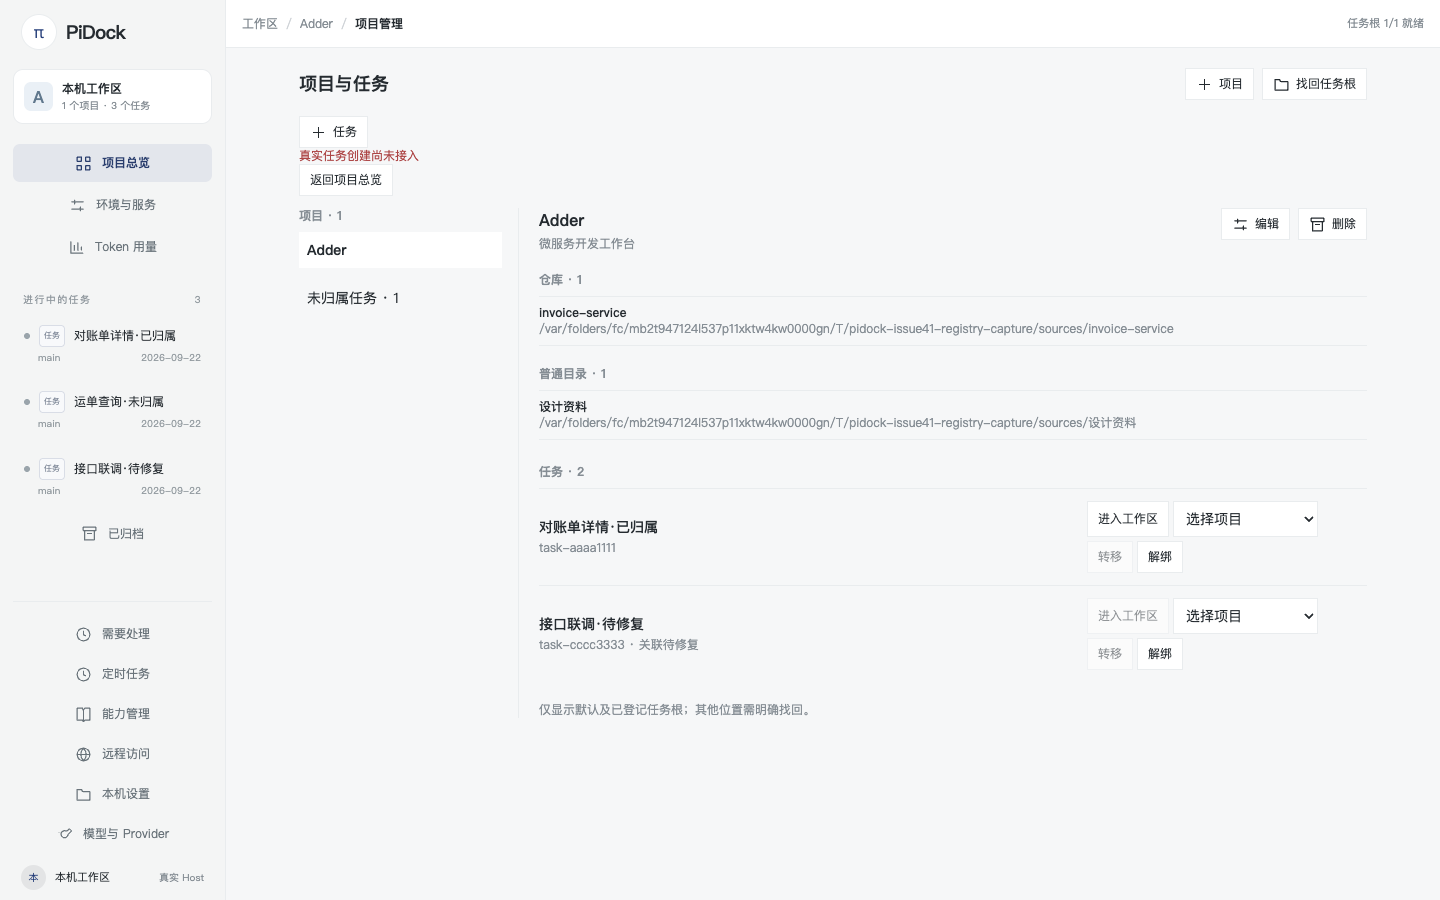
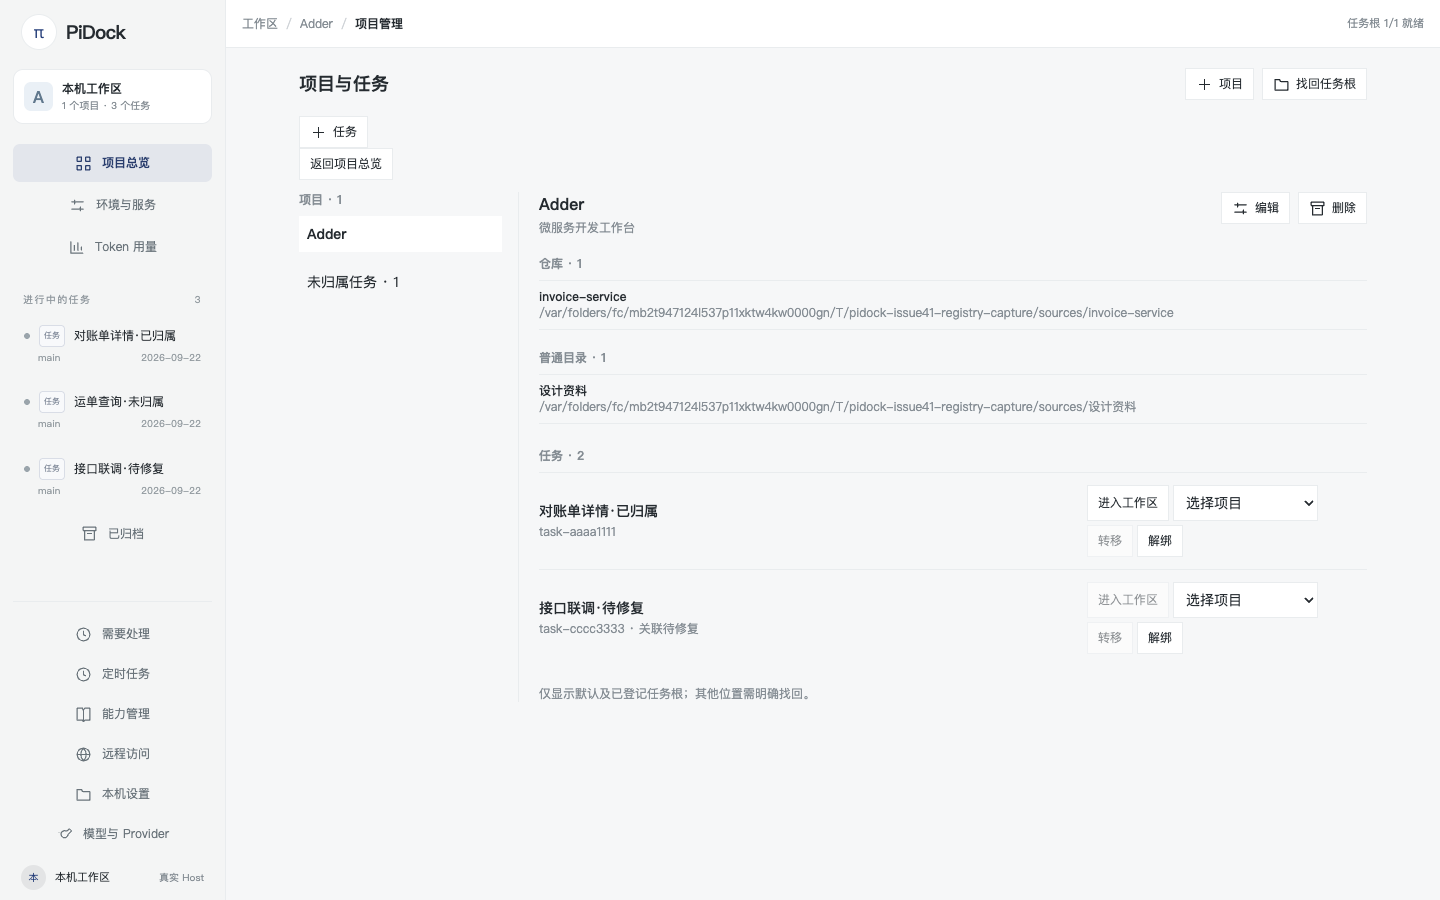
docs(evidence): recapture the #41 Project registry views without the fail-closed creation artifact (ref #38, ref #39, ref #40, ref #41)

diff --git a/docs/evidence/desktop-project-registry/README.md b/docs/evidence/desktop-project-registry/README.md
@@ -1,8 +1,9 @@
 # [PiDock 02e/02f/02g/02h] (#38/#39/#40/#41) Desktop 项目注册表 — 真实 Electron 证据
 
-本目录是 **真实 Electron**（生产 main 接线 + 已构建 React renderer，非 Vite/Playwright，非夹具页）
+本目录是 **真实 Electron**（生产运行时接线 + 已构建 React renderer，非 Vite/Playwright，非夹具页）
 对「Desktop 项目与未归属任务接入持久 Host」的窗口级截图证据：从 **真实磁盘** 的 main-owned
-Project 注册表读取项目、仓库/目录、已归属任务、待修复任务与明确未归属任务。
+Project 注册表读取项目、仓库/目录、已归属任务、待修复任务与明确未归属任务。启动路径与生产接线
+的一致性及唯一省略项见 §2 / §4。
 
 - 脚本：`packages/shell/scripts/electron-issue41-project-registry-capture.mjs`
 - PNG：`1440x900-*.png` / `720x560-*.png`
@@ -25,11 +26,20 @@ pnpm --filter @pidock/shell exec electron scripts/electron-issue41-project-regis
 
 ## 2. 启动路径与数据源
 
-- 启动路径：`createTrustedWindow("issue41","production")` + `loadTrustedViews` →
-  `dist/renderer/index.html`（无 fixture entry、无 Vite、无 memoryHost fallback）。
+- 启动路径：脚本从已编译的 `packages/shell/dist/main/*.js` **直接** 导入运行时模块，调用
+  `createTrustedWindow("issue41","production")` + `loadTrustedViews` → `dist/renderer/index.html`
+  （无 fixture entry、无 Vite、无 memoryHost fallback）。它**不**运行 `dist/main/main.js`，因此
+  应用生命周期、窗口证据断言与定时驱动不参与本次捕获。
+- 接线：与生产入口一致（`main.ts:157-180`）。`registerIpc(client, views.registry, tasks, projects, taskRoots,
+  undefined, creation, providers, …)` 中传入真实的 `ProjectTaskCreation`（`CreationIntentStore` +
+  `projects` + `TaskRootIndex` + `PerTaskHostRegistry`）与真实的 `ProviderWiring`
+  （`ProviderProfileStore` + 生产 installer 体）。因此 `shell/createTask` 走真实分支
+  （`current` 返回 `null`），渲染层**不**绘制 `真实任务创建尚未接入` 警报。
 - 数据源：真实 `TaskRootIndex`（隔离默认任务根）+ 真实 `ProjectRegistry`（隔离 `userData` 下的
   `projects.json`）+ `PerTaskHostRegistry`（`utilityProcess` fork `dist/host/host-entry.js`）。
   没有演示对象、没有内存夹具、没有 dev server。
+- 唯一未接线的生产依赖是 **服务配方目录**（`ServiceCatalog` / `tasks.configureServices`）：原因见 §4。
+  本目录三个视图的可见内容不依赖它。
 
 ## 3. 会话内容：seeded 与驱动 vs. 真实用户操作（重要披露）
 
@@ -61,30 +71,47 @@ pnpm --filter @pidock/shell exec electron scripts/electron-issue41-project-regis
 （为制造读取失败而用一个 Proxy 只覆盖 `TaskRootIndex.inventory()`）不同，本脚本全部走生产实现；
 `needs-repair` 是通过真实磁盘目录替换产生的真实注册表状态，不是注入的返回值。
 
+**唯一省略的生产依赖：服务配方目录。** 生产入口还向 `registerIpc` 传入 `ServiceCatalog`
+（`main.ts:180`），使 `tasks.configureServices` 生效服务归属围栏。本 harness **故意不接入**它：
+`needs-repair` 场景会替换 `task-cccc3333` 的目录，而围栏生效时 Host 在 `quitAll` 阶段会因无法
+验证被替换目录的身份而报 `service-owner-shutdown-unconfirmed`，受 `PerTaskHostRegistry.quitAll`/
+`disposeAll` 的封口契约约束，清理 helper 不能忽略该失败。本目录三个视图的可见状态与它无关（服务
+目录 IPC 仅在用户进入服务页面时才被调用）。
+
 ## 5. 规格冲突（不在本目录修正）
 
 `#41` box 2 要求 `创建真实任务` 与 `pi 发送` 保持 **DISABLED（尚未接线）**，但后续 `#42/#45/#47`
-已按负责人决策把它们接线。本证据 **不** 撤销这些后继能力，也 **不** 重写工单；`项目管理`
-顶部仍显示 `真实任务创建尚未接入` 的既有文句。该冲突交由负责人裁决，不属于本次源码改动范围。
+已按负责人决策把它们接线（`main.ts:167` 构造 `ProjectTaskCreation`，`main.ts:180` 传入 `registerIpc`）。
+本证据 **不** 撤销这些后继能力，也 **不** 重写工单。harness 与生产一样接入了 `ProjectTaskCreation`，
+所以本目录 `项目管理` 截图里的 `新建任务` 入口是**可用**的，且 **没有** `真实任务创建尚未接入` 警报：
+截图本身即表明当前源码与 box 2 的期望相反。该冲突交由负责人裁决，不属于本次源码改动范围。
 
 ## 6. 捕获方法与确定性
 
 - 尺寸：脚本 `setContentSize(W,H)` 后断言 `getContentBounds()` 恰为 `1440×900` / `720×560`；
   文件名的 `WxH` 即实测 **CSS 内容盒** 尺寸。
-- 捕获机 deviceScaleFactor 见 `capture-log.json`（本机为面板/显示器 1×；`pixelWidth`/`pixelHeight`
-  记录真实位图尺寸，避免把 `WxH` 文件名误读为像素尺寸）。
+- 捕获机 deviceScaleFactor 见 `capture-log.json`（本机为面板/显示器 1×，所以 `1440×900` 的位图就是
+  1440×900 px；`pixelWidth`/`pixelHeight` 记录真实位图尺寸）。注意兄弟证据
+  `docs/evidence/desktop-task-inventory/` 的 `capture-log.json` 记录 `deviceScaleFactor: 2`
+  （同名 `1440×900` 对应 2880×1800 位图）：两份证据都如实记录各自的 dsf，跨证据比较请用
+  `pixelWidth`/`pixelHeight`，不要按文件名比较。`#38` box 5 的 720×560 可读性检查是在本目录的
+  1× PNG 上完成的。
 - 截图使用渲染器调试协议的 `Page.captureScreenshot`（对精确尺寸的 shell view 取合成帧）。
-  起因：本机某些显示/遮挡状态下 `webContents.capturePage()` 会以 `UnknownVizError` 拒绝，而
-  `Page.captureScreenshot` 稳定；两者对同一状态产生 **逐字节相同** 的 PNG（已用既有
-  `capturePage` 运行对照 sha256 验证）。未做任何「重试到通过」。
-- 固定临时根（`$TMPDIR/pidock-issue41-registry-capture`）使捕获到的本机路径稳定，因此同一源码
-  版本重放得到逐字节相同 PNG。本目录的 PNG/log 出自 `capture-log.json` 的 `revision`（该 commit 已含
-  本 harness），`trackedFilesDirty: false`；在本 revision 连续两次重放 6 张 PNG sha256 逐字节一致。
+  起因：本机某些显示/遮挡状态下 `webContents.capturePage()` 会以 `UnknownVizError` 被拒绝；
+  该调用在本机未产出可用截图，因此本目录**只**提交 `Page.captureScreenshot` 的结果，也**不**
+  声称两者逐字节相同（没有可提交的 `capturePage` 对照运行）。未做任何「重试到通过」。
+- 固定临时根（`$TMPDIR/pidock-issue41-registry-capture`）使捕获到的本机路径稳定。本目录的 PNG/log 出自
+  `capture-log.json` 的 `revision`（commit `34a1f8e`，已含本 harness）；在该 revision 连续两次重放得到
+  6 张 **逐字节相同** 的 PNG，两次的 sha256 集合已提交在 `determinism-replay.json`，可与
+  `capture-log.json` 的 `shots[].sha256` 逐条核对。项目/仓库/目录的 UUID 每次运行会重新生成且从不出现在
+  画面里，故只声称 PNG 字节确定，不声称 `capture-log.json` 字节确定。
+  `trackedFilesDirty` 由 harness 计算「源码树是否干净」：它排除 `--out` 指向的本目录（重放本身会覆盖其中
+  已提交的字节），其余 tracked 路径必须干净；本 revision 的两次运行均为 `false`。
 
 | 视图 | PNG | 实测画面 |
 | --- | --- | --- |
 | 项目总览（1440×900 / 720×560） | `1440x900-project-overview.png` / `720x560-project-overview.png` | 真实 Project「Adder」：进行中的任务 2、已绑定仓库 1、普通目录 1；`项目仓库与目录` 列出真实 `invoice-service` 与 `设计资料`；`另有 1 个任务尚未归属任何项目…` |
-| 项目管理（1440×900 / 720×560） | `1440x900-projects-management.png` / `720x560-projects-management.png` | 项目列表（Adder）+ 详情「仓库 · 1 / 普通目录 · 1」+ 任务行：`对账单详情·已归属`（assigned）与 `接口联调·待修复 · 关联待修复`（真实 needs-repair）；侧栏 `未归属任务 · 1` |
+| 项目管理（1440×900 / 720×560） | `1440x900-projects-management.png` / `720x560-projects-management.png` | 项目列表（Adder）+ 详情「仓库 · 1 / 普通目录 · 1」+ 任务行：`对账单详情·已归属`（assigned）与 `接口联调·待修复 · 关联待修复`（真实 needs-repair）；侧栏 `未归属任务 · 1`；`新建任务` 入口可用、无 `真实任务创建尚未接入` 警报（见 §5） |
 | 未归属条目（1440×900 / 720×560） | `1440x900-projects-unassigned.png` / `720x560-projects-unassigned.png` | `未归属任务 · 任务 · 1` 仅列 `运单查询·未归属`，带 `选择项目`/`认领` 控件 |
 
 每个视图当时的 `document.body.innerText` 直接记录在 `capture-log.json` 的 `shots[].bodyText`，可逐行核对。
